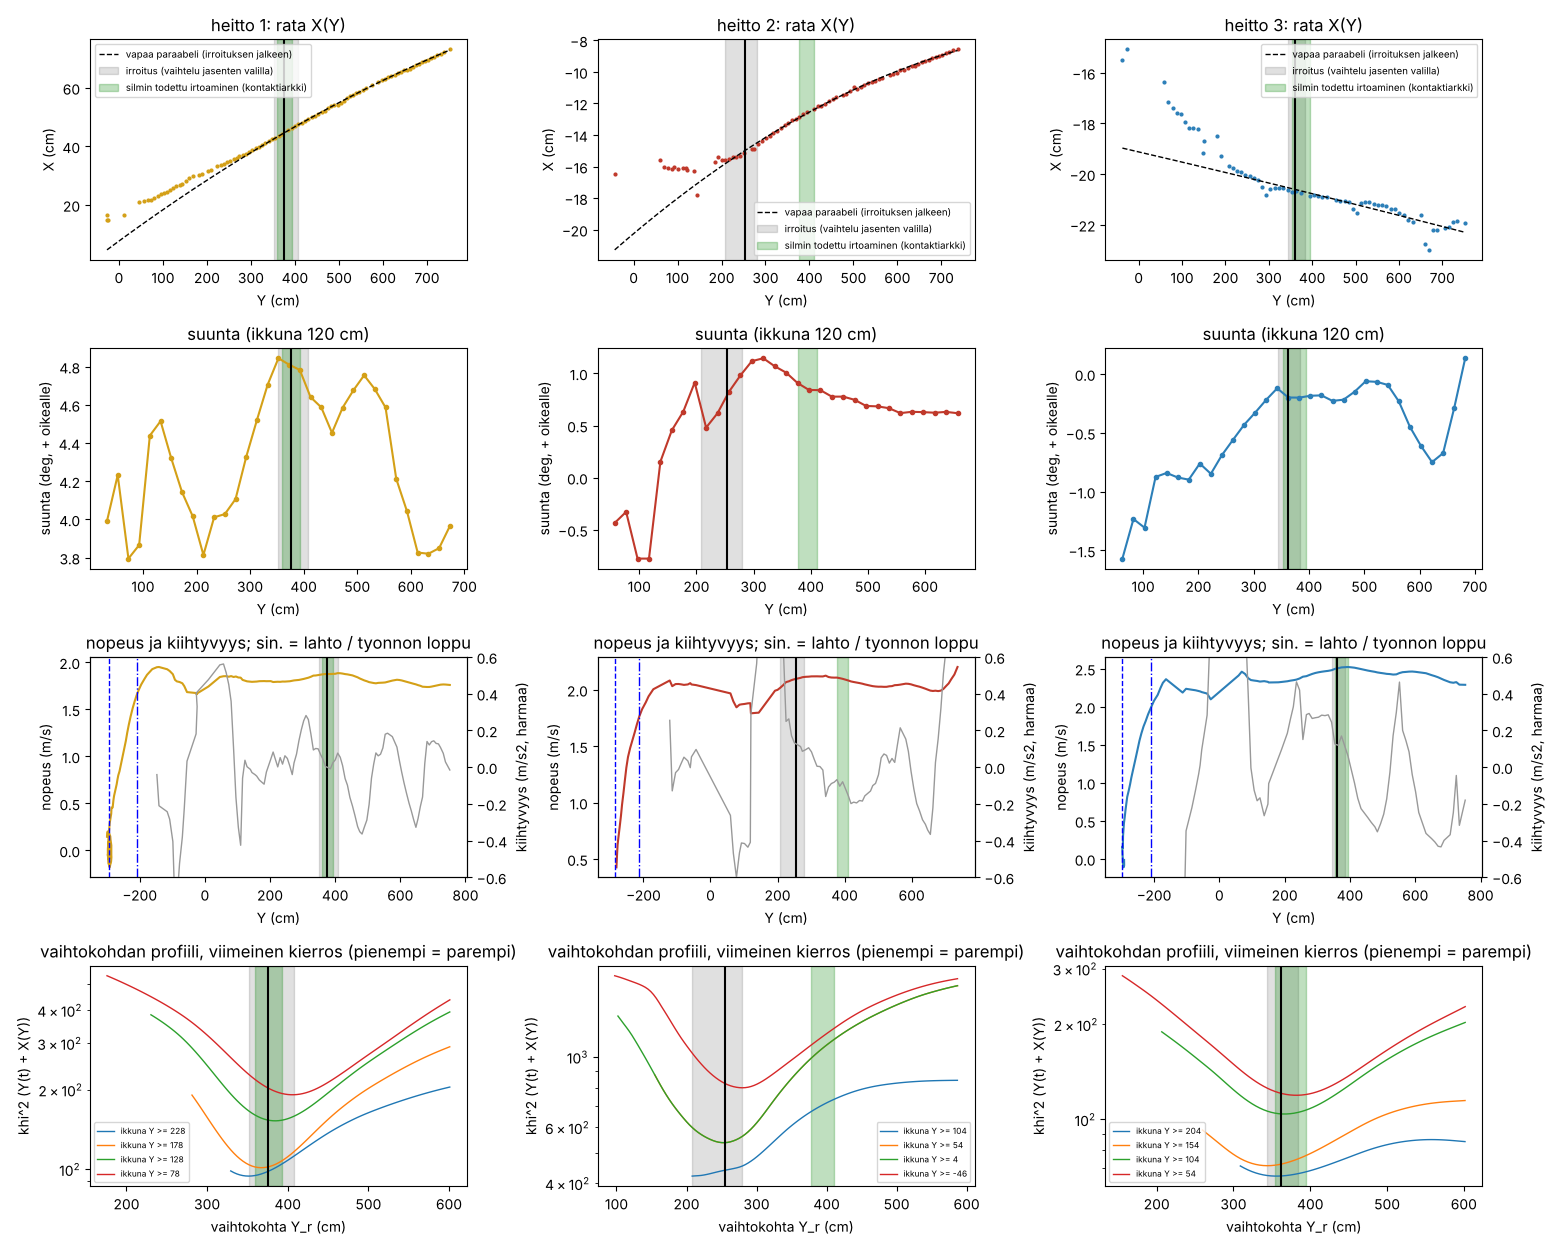
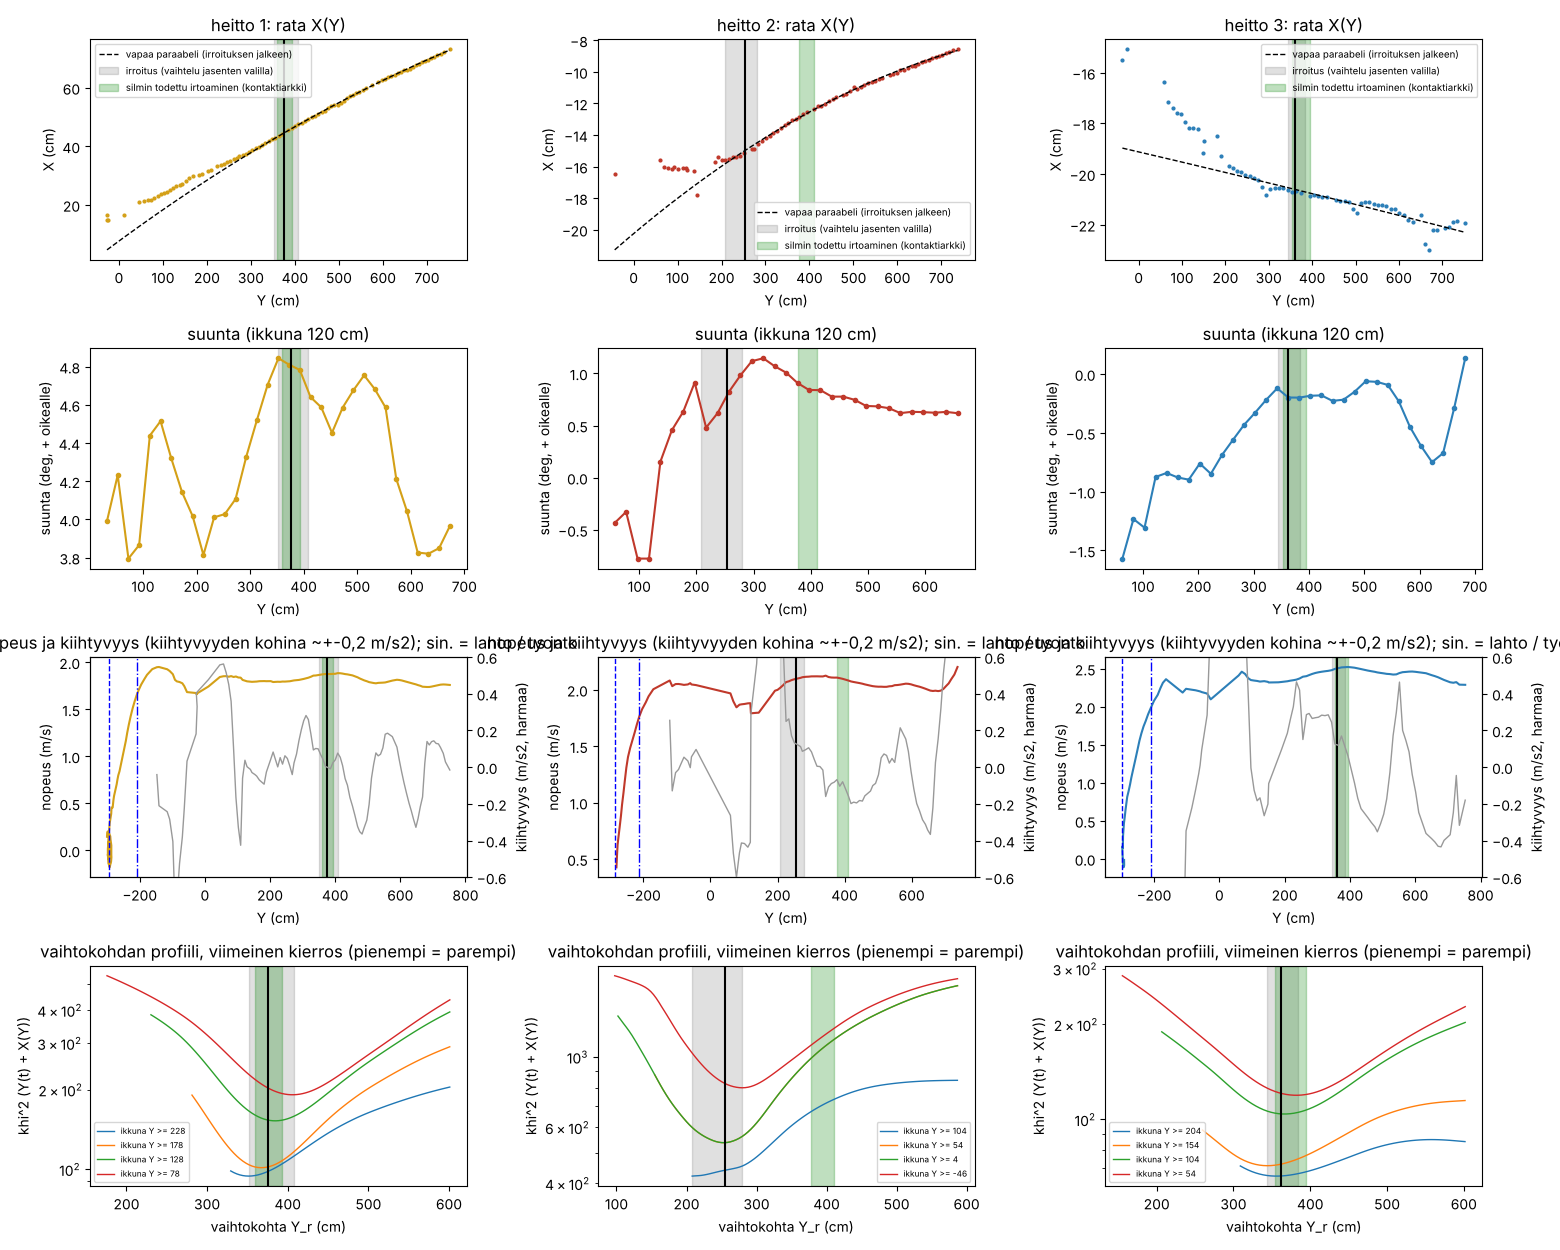
Netti_01_01: liuku_irroitus.py: kiihtyvyyskuvan otsikkoon kohinan suuruus
Claude-Session: https://claude.ai/code/session_01TSepZD3gLVcyiH44oyUR5X

Changed region(s): [[0.0, 0.4992, 1.0, 0.5304]]

diff --git a/Netti_01_01/liuku_irroitus.py b/Netti_01_01/liuku_irroitus.py
@@ -341,7 +341,7 @@ def piirra(radat, tulokset, ref, polku):
         a.axvline(la["Y_lahto"], color="b", lw=1, ls="--")
         a.axvline(la["Y_90"], color="b", lw=1, ls="-.")
         merkit(a, k, ir)
-        a.set(xlabel="Y (cm)", ylabel="nopeus (m/s)", title="nopeus ja kiihtyvyys; sin. = lahto / tyonnon loppu")
+        a.set(xlabel="Y (cm)", ylabel="nopeus (m/s)", title="nopeus ja kiihtyvyys (kiihtyvyyden kohina ~+-0,2 m/s2); sin. = lahto / tyonto")
         a = ax[3, j]
         if ir is not None:
             for jas, P in zip(ir["jasenet"], ir["profiilit"]):
